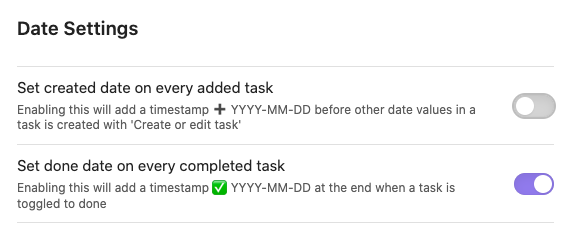
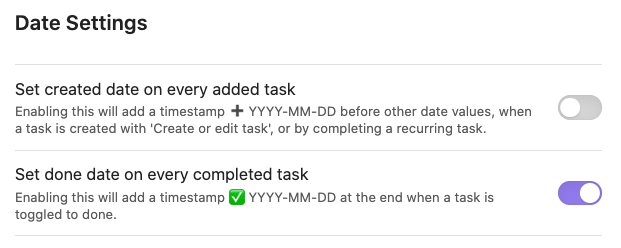
feat: Improve the wording of 'created date' setting.

diff --git a/src/Config/SettingsTab.ts b/src/Config/SettingsTab.ts
@@ -117,7 +117,7 @@ export class SettingsTab extends PluginSettingTab {
         new Setting(containerEl)
             .setName('Set created date on every added task')
             .setDesc(
-                "Enabling this will add a timestamp ➕ YYYY-MM-DD before other date values in a task is created with 'Create or edit task'",
+                "Enabling this will add a timestamp ➕ YYYY-MM-DD before other date values, when a task is created with 'Create or edit task', or by completing a recurring task.",
             )
             .addToggle((toggle) => {
                 const settings = getSettings();
@@ -129,7 +129,7 @@ export class SettingsTab extends PluginSettingTab {
 
         new Setting(containerEl)
             .setName('Set done date on every completed task')
-            .setDesc('Enabling this will add a timestamp ✅ YYYY-MM-DD at the end when a task is toggled to done')
+            .setDesc('Enabling this will add a timestamp ✅ YYYY-MM-DD at the end when a task is toggled to done.')
             .addToggle((toggle) => {
                 const settings = getSettings();
                 toggle.setValue(settings.setDoneDate).onChange(async (value) => {
